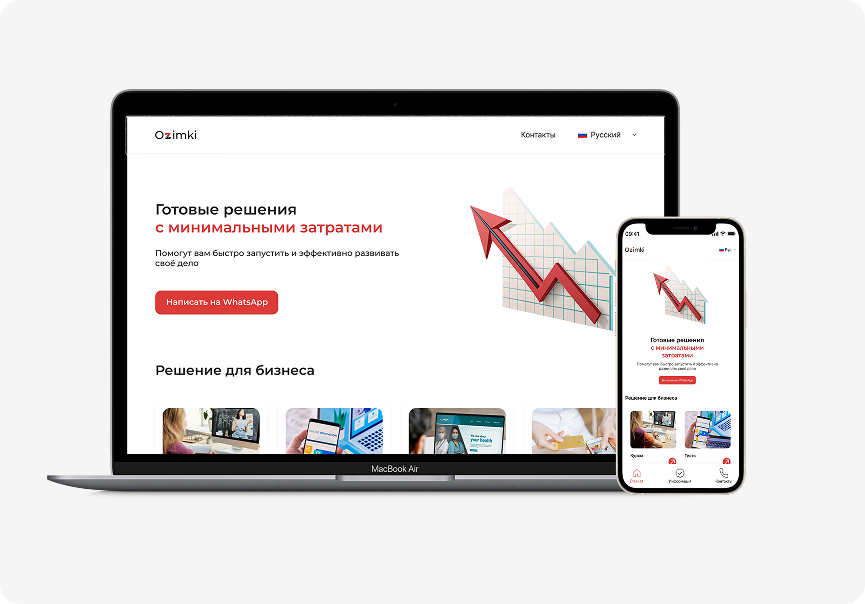
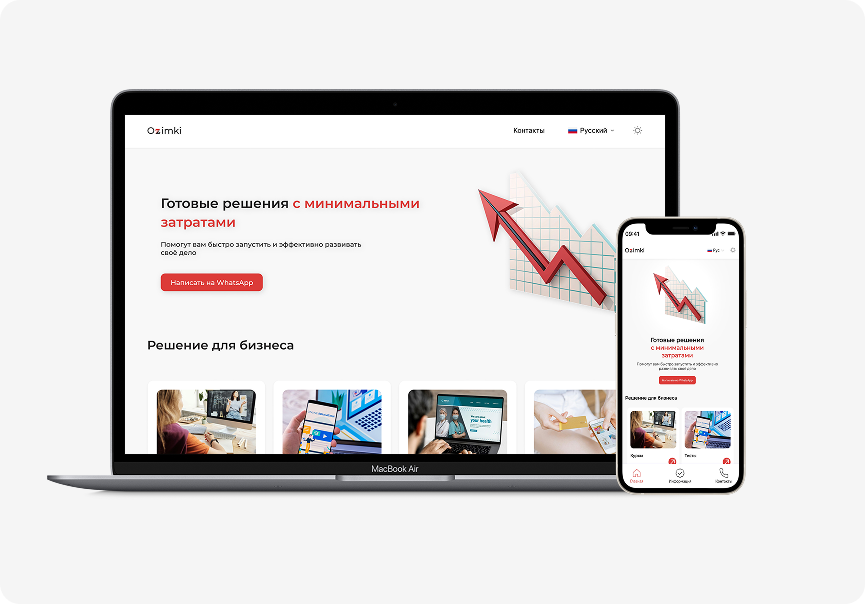
fix: change new image

Changed region(s): [[0.1249, 0.1788, 0.7491, 0.7748], [0.5306, 0.298, 0.7179, 0.5662], [0.8116, 0.3874, 0.8428, 0.4172]]

diff --git a/src/components/ProductsCard/ui/ProductsCard.module.scss b/src/components/ProductsCard/ui/ProductsCard.module.scss
@@ -17,7 +17,7 @@
 .container {
   overflow: hidden;
   width: 100%;
-  aspect-ratio: 1/1.35;
+  aspect-ratio: 1/1.37;
 }
 
 .info {
